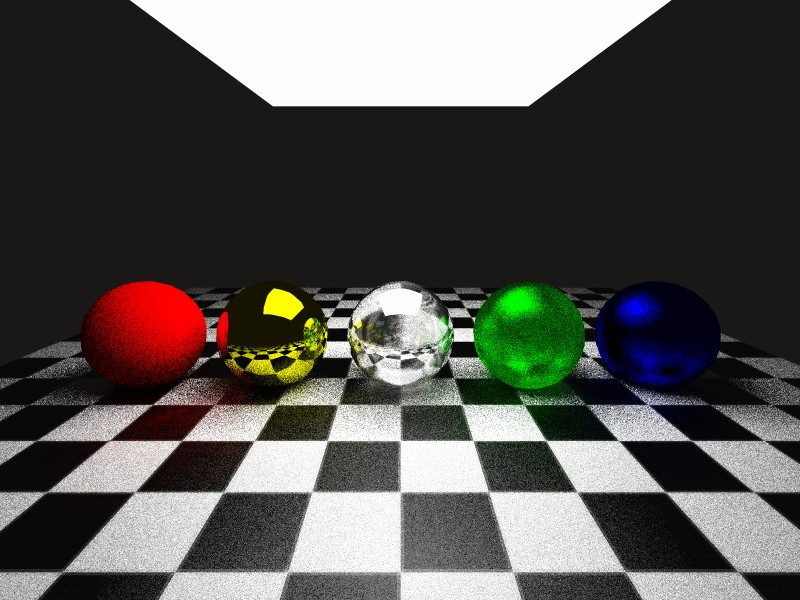
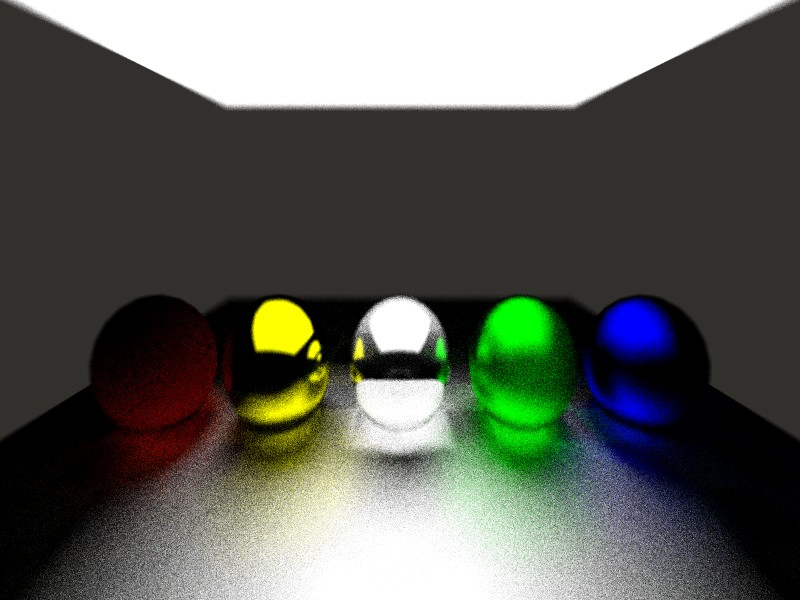
Raise MAX_TRACE_DEPTH to 32 for concave glass
Refractive meshes with concave geometry (Suzanne's mouth, eye sockets)
routinely chain 10+ internal Fresnel bounces before a ray escapes. With
the old cap of 16, the light that should transmit through those regions
was getting clamped to zero at the depth boundary, leaving the interior
of coloured glass much darker than it should be.

Russian Roulette still handles typical path termination; this cap only
bounds the worst case, so the cost of doubling it is only paid on paths
that actually keep finding energetic Fresnel bounces.

Suzanne/sphereArray scenes updated to use the feature (aqua glass with
DOF, wider area lights) as a visual regression guard.

diff --git a/src/raygen/rayrenderer.cpp b/src/raygen/rayrenderer.cpp
@@ -29,7 +29,9 @@
 #define TRACE_PATH_TRIES 1
 // Safety cap on recursion. Russian Roulette handles typical path termination
 // (see RayBSDFShaderProvider::shade), so this only bounds worst-case depth.
-#define MAX_TRACE_DEPTH 16
+// Glass / refractive meshes can chain 10+ internal Fresnel bounces on
+// concave geometry, so the cap needs headroom above the diffuse norm.
+#define MAX_TRACE_DEPTH 32
 // Start Russian Roulette after this many bounces so early, high-throughput
 // bounces are always traced — only the tail of the path is stochastic.
 #define MIN_RR_DEPTH 3